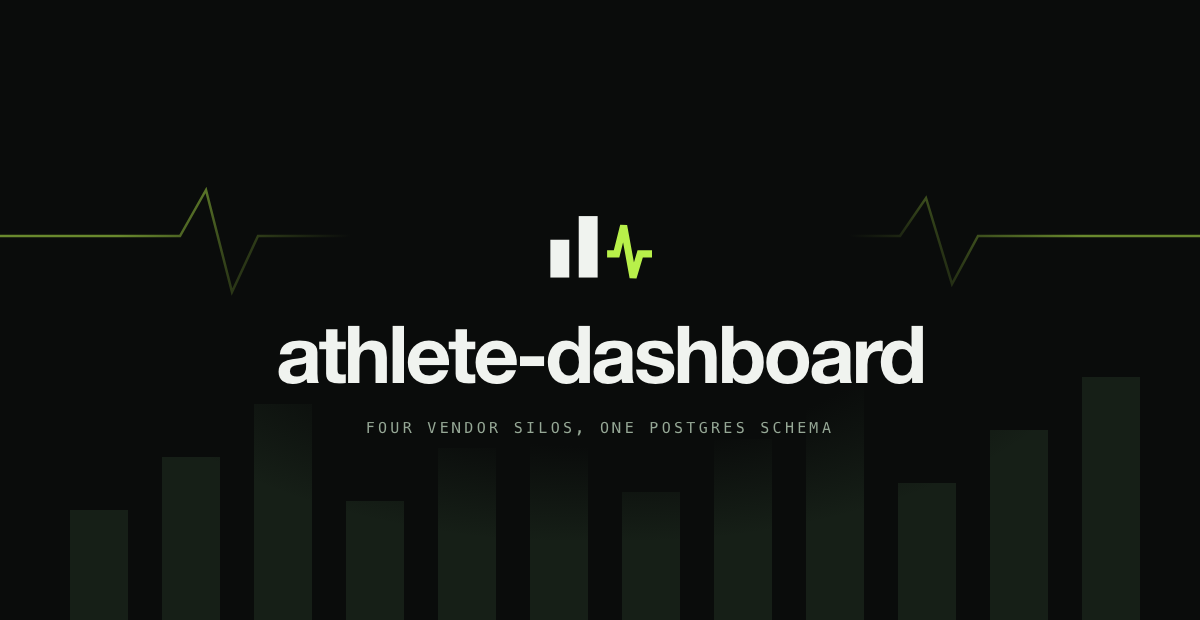
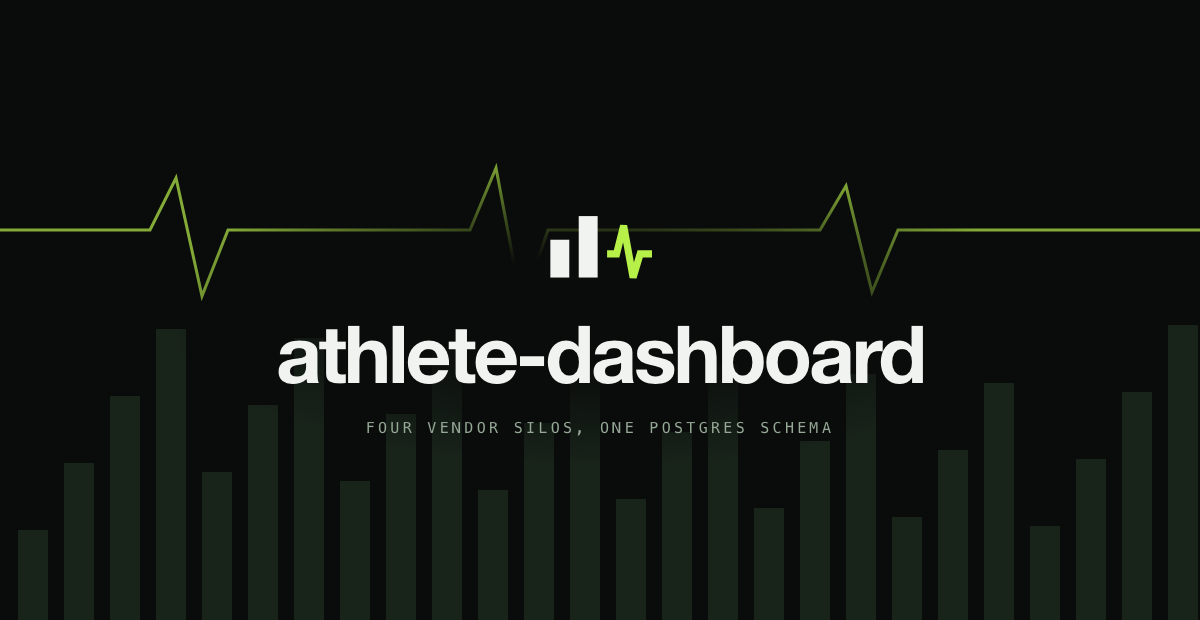
Give the header room and make the badge row read as one strip
The banner artwork was hidden behind an oversized scrim, so a page that should
open on a picture opened on an empty field. The artwork is now dense and
visible, and it is drawn from what this project actually does.

The badge row had grey label halves and inconsistent colours, so it read as a
pile of separate images. Every badge now shares one dark label colour and
carries this project's accent on the value half, all on a single line.

Sections have air between them instead of butting up against each other.

diff --git a/README.md b/README.md
@@ -5,12 +5,10 @@
 ### Strength, cardio, nutrition and wearable biometrics behind a single Postgres schema, so the data can finally be correlated.
 
 <p>
-<img src="https://img.shields.io/badge/license-MIT-0A0C0B?style=for-the-badge" alt="" height="30"/>
-<img src="https://img.shields.io/badge/react-19-0A0C0B?style=for-the-badge&logo=react&logoColor=61DAFB" alt="" height="30"/>
-<img src="https://img.shields.io/badge/supabase-postgres%20%2B%20RLS-0A0C0B?style=for-the-badge&logo=supabase&logoColor=3FCF8E" alt="" height="30"/>
-<img src="https://img.shields.io/badge/tables-22-B8F04A?style=for-the-badge" alt="" height="30"/>
-<img src="https://img.shields.io/badge/live%20demo-no%20account%20needed-B8F04A?style=for-the-badge" alt="" height="30"/>
+<img src="https://img.shields.io/badge/license-MIT-B8F04A?style=for-the-badge&labelColor=131614" alt=""/> <img src="https://img.shields.io/badge/react-19-61DAFB?style=for-the-badge&logo=react&logoColor=white&labelColor=131614" alt=""/> <img src="https://img.shields.io/badge/supabase-postgres%20%2B%20RLS-3FCF8E?style=for-the-badge&logo=supabase&logoColor=white&labelColor=131614" alt=""/> <img src="https://img.shields.io/badge/tables-22-B8F04A?style=for-the-badge&labelColor=131614" alt=""/> <img src="https://img.shields.io/badge/live%20demo-no%20account-B8F04A?style=for-the-badge&labelColor=131614" alt=""/>
 </p>
+
+<br>
 
 </div>
 
